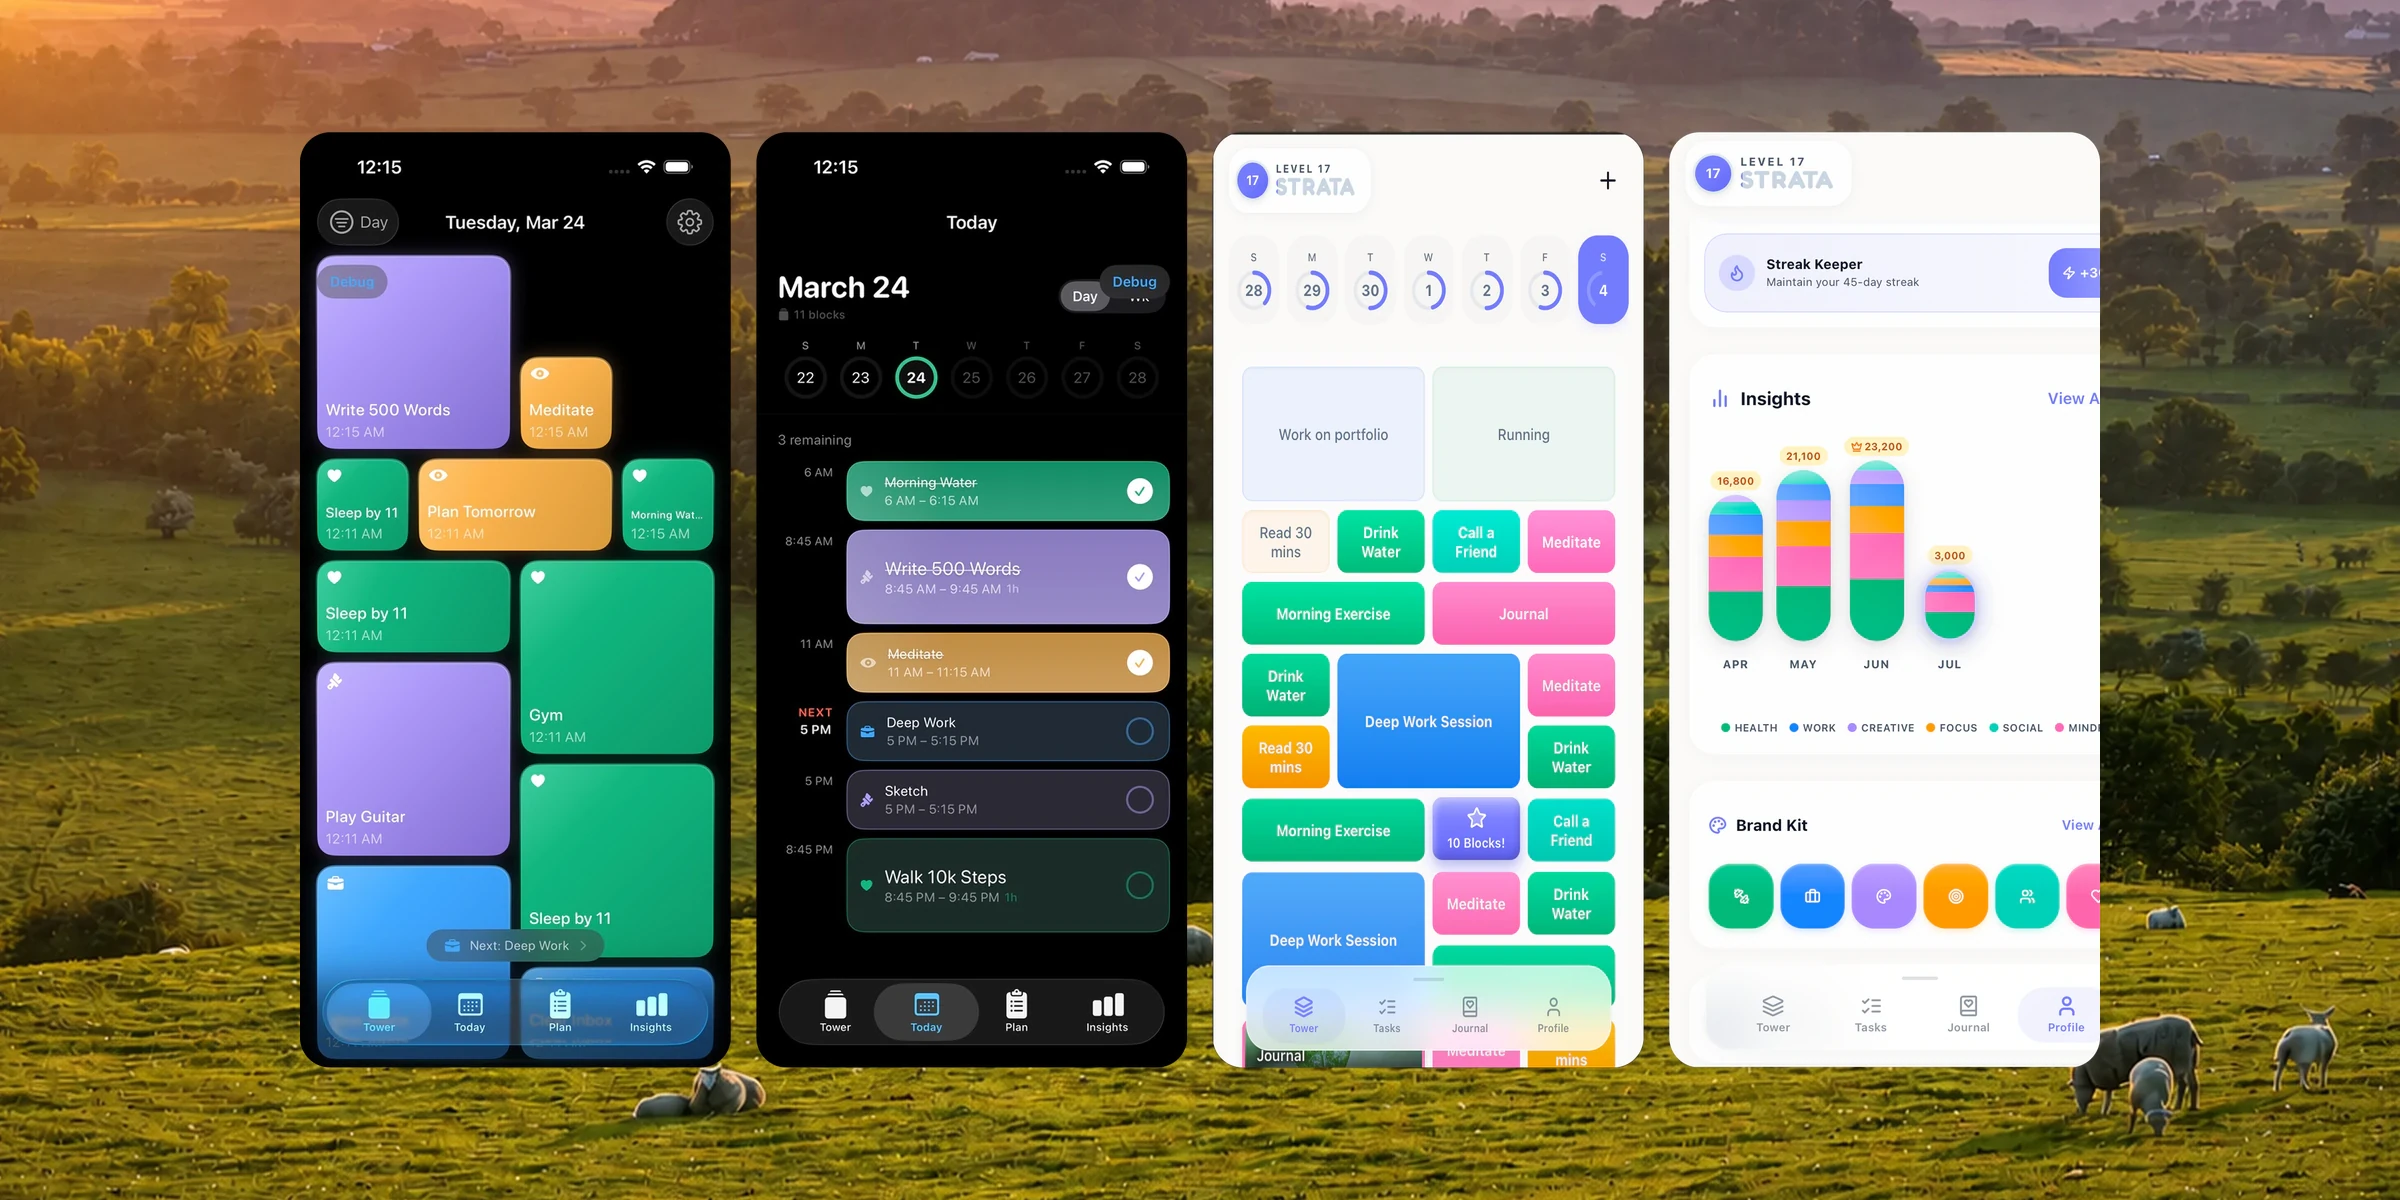
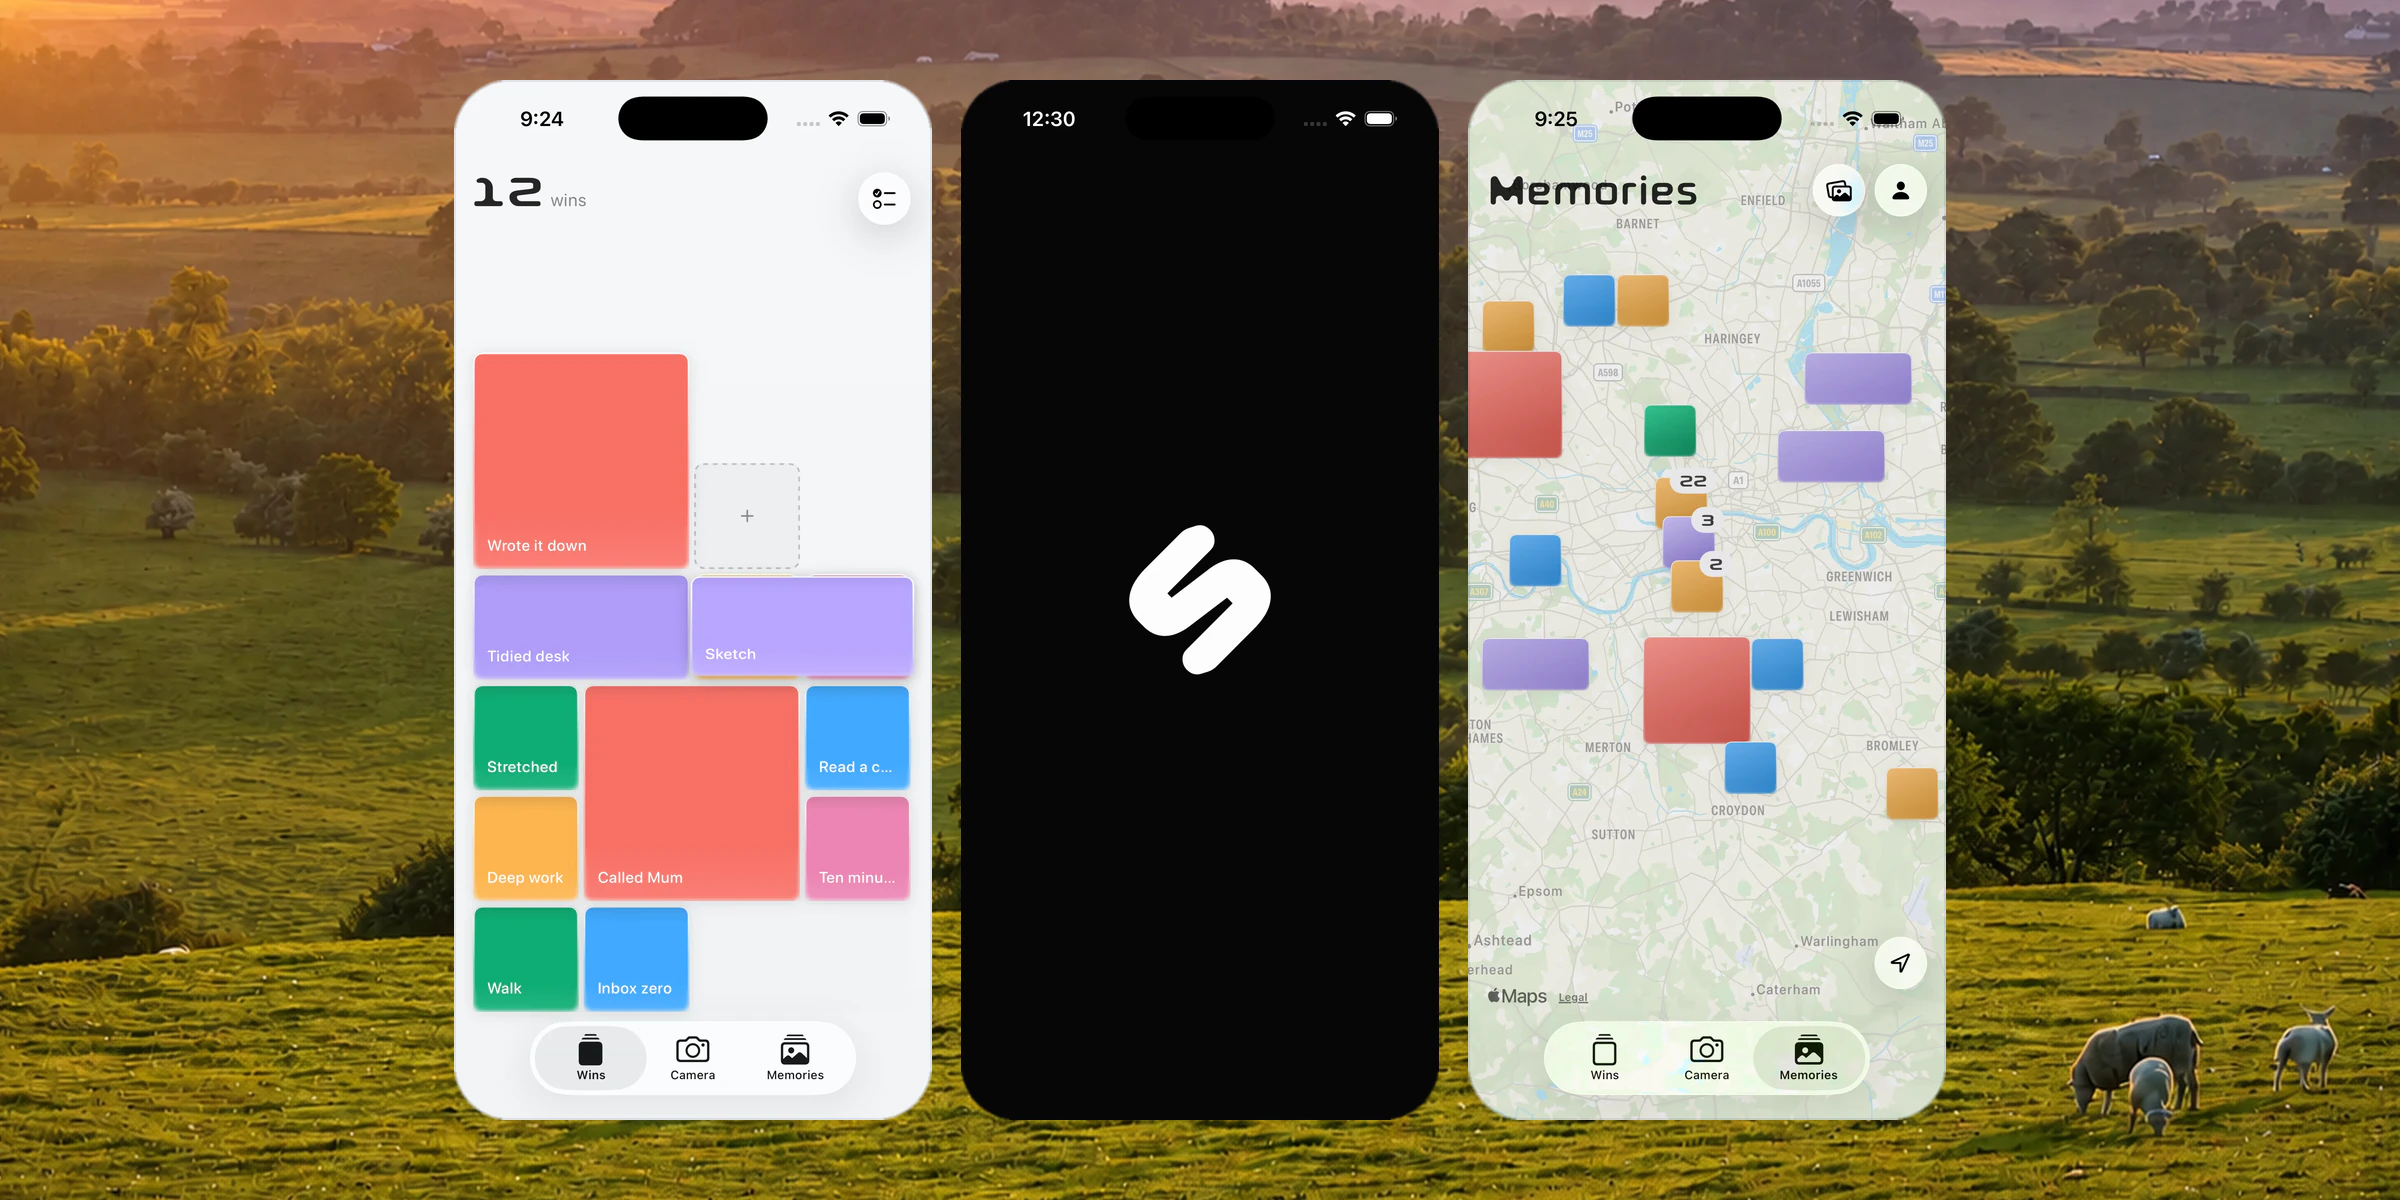
Strata's cover shows the app that ships, not the one from a class
THE PLATES WERE A YEAR OUT OF DATE. They carried four screens of the 2025 web
prototype: a day timeline, a plan grid, an insights dashboard, all of which the
app has since deleted. Strata is an iOS app on TestFlight built around three
tabs now, so the cover a recruiter sees first was arguing for a product that no
longer exists.

THE PHOTOGRAPH IS THE SAME PHOTOGRAPH, and that was the hard part rather than
the screens. Strata's six plates were never made by grade(): they are
generative relights, and the tool that built them lived inside the output
folder and was deleted with it. Inverting the shipped daytime plate to recover
the pasture was tried first and measured wrong: ungrading daytime and sunrise
gave images 22 levels apart per channel, which is the proof that PALETTES never
touched this cover. The six phone-free plates are still reachable as git
objects at a8a3cb7, so the builder restores them to a /tmp cache rather than
putting 14 MB of PNG back in the tree, and the pasture behind the phones is the
pasture that shipped, pixel for pixel.

tools/build-strata-cover.py is that builder, restored to tools/ with the
reasoning from the 2026-08-20 production report folded into it, so the next
person does not have to dig it out of git twice. It reproduces both steps in
order: fit to the 2400x1784 canvas, then take d76f055's centre crop to 2:1.

THREE SCREENS, BIGGER THAN THE FOUR WERE. Looked at, at 1200, at 552 (the
[…]

diff --git a/tools/build-strata-cover.py b/tools/build-strata-cover.py
@@ -1,0 +1,296 @@
+#!/usr/bin/env python3
+"""Rebuild the Strata cover as six time states, UI pixels preserved.
+
+WHY THIS FILE EXISTS.  The twelve Strata plates that shipped until today were
+built on 2026-08-20 by a script that lived inside the output folder
+(`images/cs/variants/time/strata/sources/build_strata_variants.py`) and was
+deleted with the rest of that folder.  The app has since changed completely --
+it is an iOS app on TestFlight now, not the four-screen habit builder those
+plates show -- so the screens had to be replaced, and there was nothing left in
+the tree to replace them with.  This is that builder, restored, with the new
+screens and the reasoning that was scattered across a production report folded
+into it.  It lives in tools/ so the next person does not have to dig it out of
+git twice.
+
+THE CONSTRUCTION IS UNCHANGED AND IT IS THE WHOLE POINT.  Every cover on this
+site is a photograph with the product standing on top of it, and only the
+PHOTOGRAPH takes the hour: the product pixels are byte-identical in all six
+states.  That preservation is why these plates read as one picture at six times
+of day instead of six filters.  The invariant is asserted at the bottom of this
+file, on the opaque pixels of the product layer, exactly as the 2026-08-20 build
+asserted it.
+
+THE PHOTOGRAPH IS THE SAME PHOTOGRAPH.  Strata's is a sloping sheep pasture with
+layered hedgerows and a low hazy horizon, and it is a DELIBERATE, per-project
+choice -- an audit once called the covers "the same stock meadow" and was wrong
+and was pushed back on.  Six phone-free plates of that pasture exist, one per
+state, generated for the 2026-08-20 build and committed at `a8a3cb7` under
+`images/cs/variants/time/strata/sources/`.  They were removed from the tree in a
+later page-weight pass but they are still reachable as git objects, so this file
+restores them to a cache under /tmp rather than putting 14 MB of PNG back into
+the repo.  Re-running offline reuses the cache.  Nothing here regenerates,
+repaints or re-grades the pasture: the six plates are used exactly as they were.
+
+GEOMETRY.  The 2026-08-20 build fitted each plate to a 2400x1784 canvas and
+placed a 1800x948 mockup at (300, 420); a later pass (`d76f055`) re-cut every
+cover on the site to 2:1, because 2:1 is the box they are painted into at every
+viewport and a third of each file was being discarded by object-fit at paint
+time.  Both steps are reproduced here in order -- fit to 2400x1784, then take the
+same centre crop to 2400x1200 -- so the pasture behind the phones is pixel-for-
+pixel the pasture that ships today.
+
+THREE PHONES, NOT FOUR, and they are bigger than the four were.  The old master
+was four 431x948 screens with a 26px gap, spanning 75% of the plate.  Three
+screens of that height would span 57% and float; at 1040 tall they span 62% and
+carry the plate.  Measured against the alternatives by looking at them at 1200,
+552 (the desktop card) and 342 (the card at a 390 viewport): 948 is too small to
+read the tower's blocks, 1100 leaves too little pasture above and below.
+
+THE CORNER RADIUS IS THE DEVICE'S, NOT THE SERIES'.  The other covers round a
+WINDOW of desktop UI at round(width * .014), and the old Strata master was a
+design mockup whose screens were rounded at .087 of their own width.  These are
+real iPhone 17 screenshots, and at .087 they read as rounded rectangles rather
+than as phones.  .115 of the screen width is the device's own display radius
+(62pt on a 402pt-wide screen) and it is the one that reads as a phone.  Looked
+at, at all three sizes, against .087 and .145.
+
+NO SHADOW.  On this site the companion heads cast contact shadows and nothing
+else does, because a shadow is information -- it says the head is standing on
+something.  A screen gets the same hairline the rest of the site's chrome uses,
+`--rim-1`, one CSS pixel: 1 device pixel at 1200 and 2 at 2400, because the
+plate is served at DPR 2.
+
+THE OFF PLATE.  time-aware-thumbnails.js serves ORIGINALS["strata"] --
+`images/cs/strata-cover.webp` -- when the clock is off, and the rule there is
+that Off is the same picture with no grade applied, so switching it off changes
+the light and nothing else.  Strata has no ungraded plate: its six states are
+generative relights of the DAYTIME plate, which is itself the phone-free
+reconstruction of the original composition.  The daytime plate is therefore the
+base, and that is what Off is built from.  The file it replaces was the original
+warm 1600x1189 composite, which was neither one of the six nor 2:1.
+"""
+
+import argparse
+import shutil
+import subprocess
+import sys
+import tempfile
+from pathlib import Path
+
+from PIL import Image, ImageChops, ImageDraw, ImageFilter, ImageOps
+
+
+ROOT = Path(__file__).resolve().parents[1]
+OUT = ROOT / "images/cs/variants/time/strata"
+SCREENS = ROOT / "images/cs/study/strata"
+ORIGINAL = ROOT / "images/cs/strata-cover.webp"
+CACHE = Path("/tmp/portfolio-strata-plates")
+
+STATES = ("pre-dawn", "sunrise", "daytime", "dusk", "sunset", "night")
+# The commit that still carries the six phone-free pasture plates.
+PLATE_COMMIT = "a8a3cb7"
+PLATE_PATH = "images/cs/variants/time/strata/sources/{state}-generated.png"
+
+CANVAS = (2400, 1784)          # the 2026-08-20 canvas
+CROP = (0, 292, 2400, 1492)    # the 2:1 centre crop d76f055 re-cut every cover to
+WIDTHS = (2400, 1200)
+OFF_WIDTH = 1600
+
+# The three screens, left to right.  The launch mark sits in the MIDDLE because
+# it is the only dark screen and it separates the two light ones; at either end
+# the plate reads lopsided.
+SCREEN_ORDER = ("tower", "launch", "map")
+PHONE_H = 1040                 # at 2400 wide
+PHONE_ASPECT = 1206 / 2622     # iPhone 17, the size every screenshot was taken at
+GAP = .06                      # of a phone's width
+RADIUS = .115                  # of a phone's width: the device's own display radius
+RIM = (9, 11, 36, 20)          # the site's --rim-1
+
+DESKTOP_QUALITY = 90           # d76f055 measured q82/q90/q95 at 37.8/40.8/43.1 dB
+MOBILE_QUALITY = 88            # and picked q90; the mobile plates ship at q88
+DESKTOP_LIMIT = 700 * 1024
+
+
+def plate(state):
+    """The phone-free pasture for one state, restored from git if need be."""
+    CACHE.mkdir(parents=True, exist_ok=True)
+    cached = CACHE / f"{state}.png"
+    if not cached.exists():
+        blob = f"{PLATE_COMMIT}:{PLATE_PATH.format(state=state)}"
+        with cached.open("wb") as handle:
+            subprocess.run(["git", "show", blob], cwd=ROOT, stdout=handle, check=True)
+    return Image.open(cached)
+
+
+def background(state, width):
+    """The pasture at `width`, cropped exactly as every cover on the site is."""
+    with plate(state) as source:
+        fitted = ImageOps.fit(
+            source.convert("RGB"), CANVAS,
+            method=Image.Resampling.LANCZOS, centering=(0.5, 0.5),
+        )
+    cropped = fitted.crop(CROP)
+    if width != CROP[2]:
+        cropped = cropped.resize((width, width // 2), Image.Resampling.LANCZOS)
+    return cropped
+
+
+def rounded(image, size, radius, hairline):
+    """A screenshot scaled into `size` with the device's corners and a hairline.
+
+    The two-pixel feather is the trick the rest of the series uses: it protects
+    the screenshot's own antialiased edge without leaving a hard pasted seam
+    against the pasture.
+    """
+    scaled = image.resize(size, Image.Resampling.LANCZOS).convert("RGBA")
+    mask = Image.new("L", size, 0)
+    ImageDraw.Draw(mask).rounded_rectangle((0, 0, size[0] - 1, size[1] - 1),
+                                           radius=radius, fill=255)
+    mask = mask.filter(ImageFilter.GaussianBlur(max(1, size[0] / 900)))
+    scaled.putalpha(mask)
+    rim = Image.new("RGBA", size, (0, 0, 0, 0))
+    ImageDraw.Draw(rim).rounded_rectangle((0, 0, size[0] - 1, size[1] - 1),
+                                          radius=radius, outline=RIM, width=hairline)
+    scaled.alpha_composite(rim)
+    return scaled
+
+
+def foreground(size):
+    """The three screens, built once per width and reused for every state.
+
+    Building it once is what makes the six plates differ only where the
+    photograph is; rebuilding it per state would let a resample land a pixel
+    apart and quietly break the thing the whole series rests on.
+    """
+    width, height = size
+    scale = width / 2400.0
+    ph = round(PHONE_H * scale)
+    pw = round(ph * PHONE_ASPECT)
+    gap = round(pw * GAP)
+    radius = round(pw * RADIUS)
+    hairline = max(1, round(width / 1200))
+    span = 3 * pw + 2 * gap
+    x = round((width - span) / 2)
+    y = round((height - ph) / 2)
+    layer = Image.new("RGBA", size, (0, 0, 0, 0))
+    for index, name in enumerate(SCREEN_ORDER):
+        source = SCREENS / f"{name}.webp"
+        if not source.exists():
+            raise FileNotFoundError(f"the Strata screen moved: {source}")
+        with Image.open(source) as screen:
+            layer.alpha_composite(rounded(screen.convert("RGB"), (pw, ph), radius, hairline),
+                                  (x + index * (pw + gap), y))
+    return layer
+
+
+def encode(image, target, quality):
+    with tempfile.TemporaryDirectory(prefix="strata-cover-") as tmp:
+        png = Path(tmp) / "plate.png"
+        image.save(png, compress_level=1)
+        if shutil.which("cwebp"):
+            subprocess.run(["cwebp", "-quiet", "-m", "6", "-pass", "10", "-sharp_yuv",
+                            "-metadata", "none", "-q", str(quality), str(png),
+                            "-o", str(target)], check=True)
+        else:
+            image.save(target, "WEBP", quality=quality, method=6,
+                       exact=True, exif=b"", icc_profile=None)
+    return target
+
+
+def build():
+    written = []
+    products = {}
+    for width in WIDTHS:
+        product = foreground((width, width // 2))
+        products[width] = product
+        for state in STATES:
+            composed = background(state, width).convert("RGBA")
+            composed.alpha_composite(product)
+            target = OUT / f"{state}-{width}.webp"
+            target.parent.mkdir(parents=True, exist_ok=True)
+            encode(composed.convert("RGB"), target,
+                   DESKTOP_QUALITY if width == 2400 else MOBILE_QUALITY)
+            if width == 2400 and target.stat().st_size >= DESKTOP_LIMIT:
+                raise RuntimeError(f"desktop plate over the 700 KiB limit: {target}")
+            written.append(target)
+
+    off = background("daytime", OFF_WIDTH).convert("RGBA")
+    off.alpha_composite(foreground(off.size))
+    encode(off.convert("RGB"), ORIGINAL, MOBILE_QUALITY)
+    written.append(ORIGINAL)
+    return written, products
+
+
+# THE INVARIANT, AND WHY IT IS MEASURED ON THE MEAN.  WebP is lossy and
+# re-quantises a flat panel differently depending on what surrounds it, so
+# single pixels inside an untouched screen still move between states: on this
+# cover the peak reaches the twenties while the mean sits near zero.  A grade
+# that actually reached the product is not a scattering of stray pixels, it is
+# every pixel moving the same way at once.  --self-test re-injects that bug and
+# proves this check can fail.
+DRIFT_MEAN = 3.0
+DRIFT_PEAK = 60
+
+
+def drift(inject=False):
+    """How far the product layer moves across the six states, in levels."""
+    frames = []
+    for state in STATES:
+        with Image.open(OUT / f"{state}-1200.webp") as image:
+            frames.append(image.convert("RGB"))
+    if inject:
+        # The bug: grade the product with the photograph instead of over it.
+        frames[-1] = Image.eval(frames[-1], lambda v: round(v * .36))
+    opaque = foreground(frames[0].size).getchannel("A").point(lambda v: 255 if v == 255 else 0)
+    box = opaque.getbbox()
+    reference = frames[2].crop(box)
+    mask = opaque.crop(box)
+    worst_mean = worst_peak = 0.0
+    for frame in frames:
+        difference = ImageChops.difference(frame.crop(box), reference)
+        masked = Image.new("RGB", difference.size)
+        masked.paste(difference, mask=mask)
+        band = masked.convert("L")
+        histogram = band.histogram()
+        counted = sum(histogram[1:]) or 1
+        worst_mean = max(worst_mean, sum(v * n for v, n in enumerate(histogram)) / counted)
+        worst_peak = max(worst_peak, band.getextrema()[1])
+    return worst_mean, worst_peak
+
+
+def main():
+    parser = argparse.ArgumentParser()
+    parser.add_argument("--self-test", action="store_true",
+                        help="re-inject the grade-the-product bug and prove the check fails")
+    args = parser.parse_args()
+
+    if args.self_test:
+        mean, peak = drift(inject=True)
+        if mean <= DRIFT_MEAN and peak <= DRIFT_PEAK:
+            print("strata cover self-test: FAIL -- injected grade went unnoticed "
+                  "(mean %.2f, peak %d)" % (mean, peak))
+            return 1
+        print("strata cover self-test: OK -- injected grade caught "
+              "(mean %.2f, peak %d)" % (mean, peak))
+        return 0
+
+    written, _ = build()
+    for path in written:
+        with Image.open(path) as image:
+            assert image.format == "WEBP", (path, image.format)
+            assert image.mode == "RGB", (path, image.mode)
+            if path.parent == OUT:
+                width = int(path.stem.rsplit("-", 1)[1])
+                assert image.size == (width, width // 2), (path, image.size)
+    mean, peak = drift()
+    if mean > DRIFT_MEAN or peak > DRIFT_PEAK:
+        print("strata cover: FAIL -- the product layer moves between states "
+              "(mean %.2f, peak %d)" % (mean, peak))
+        return 1
+    print("strata cover: OK -- %d files, product drift mean %.2f peak %d"
+          % (len(written), mean, peak))
+    return 0
+
+
+if __name__ == "__main__":
+    sys.exit(main())
